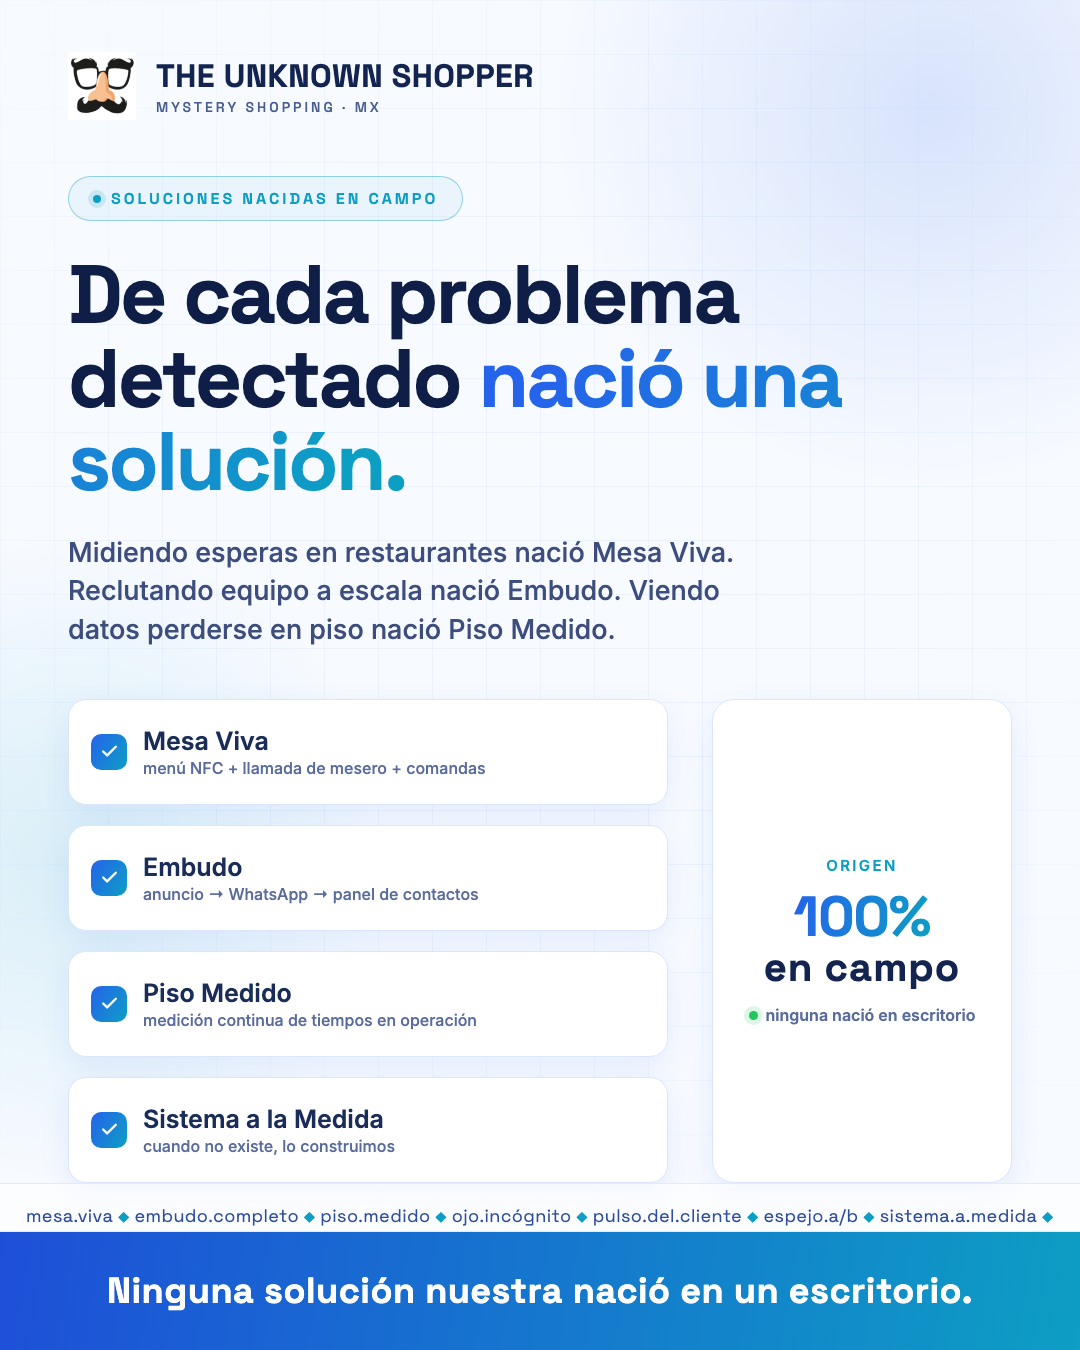
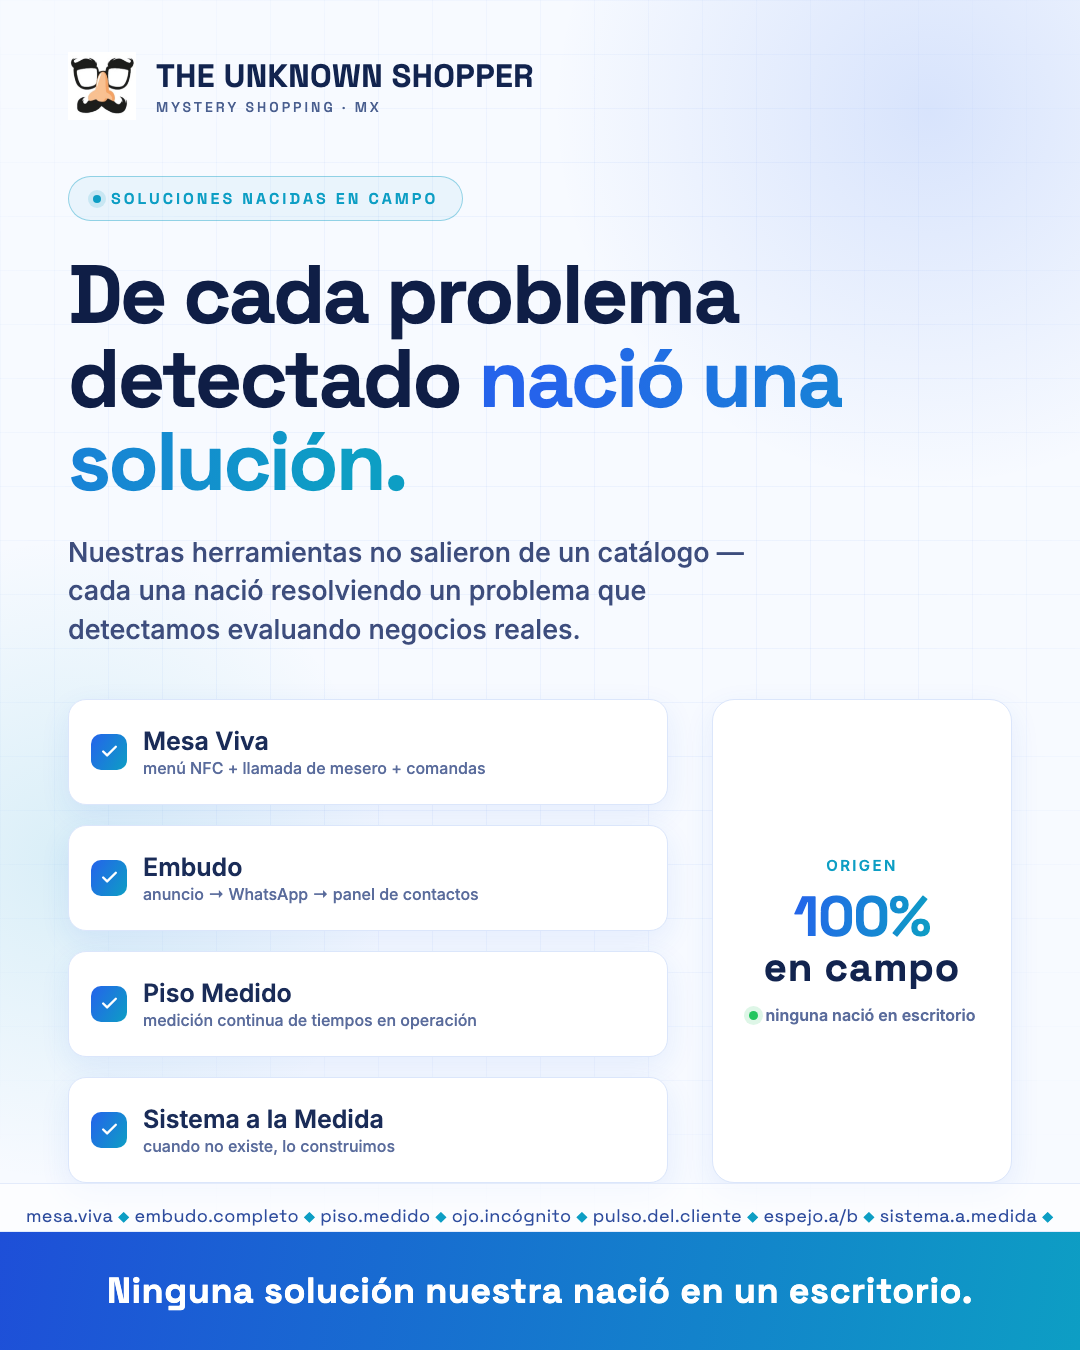
Simplifica lead del post TUS soluciones en campo

Changed region(s): [[0.0611, 0.4044, 0.6722, 0.4978]]

diff --git a/ejms/tus-soluciones-campo.html b/ejms/tus-soluciones-campo.html
@@ -152,7 +152,7 @@
 
   <h1>De cada problema detectado <span class="grad">nació una solución.</span></h1>
 
-  <p class="lead">Midiendo esperas en restaurantes nació Mesa Viva. Reclutando equipo a escala nació Embudo. Viendo datos perderse en piso nació Piso Medido.</p>
+  <p class="lead">Nuestras herramientas no salieron de un catálogo — cada una nació resolviendo un problema que detectamos evaluando negocios reales.</p>
 
   <div class="mid">
     <div class="chips">
